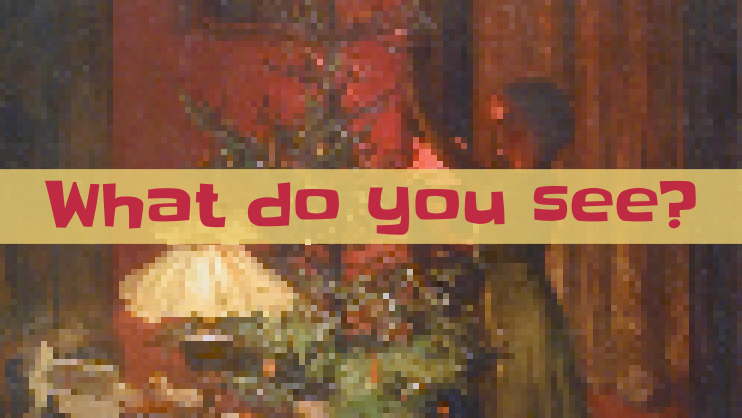
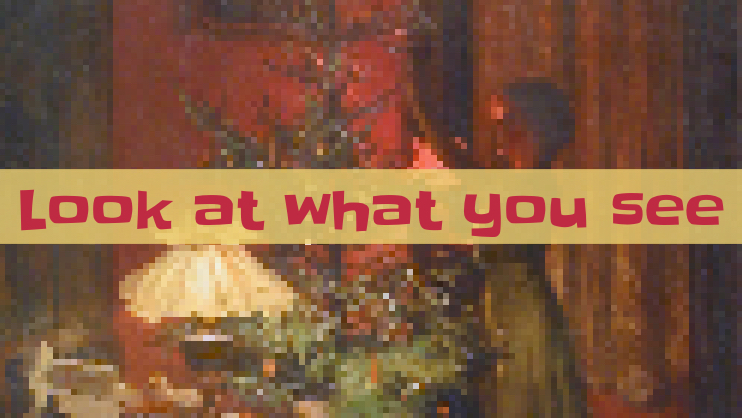
Changed to "Look at what you see"

Changed region(s): [[0.0, 0.4043, 0.9919, 0.5909]]

diff --git a/web.html b/web.html
@@ -3,7 +3,7 @@
 
 <html xmlns="http://www.w3.org/1999/xhtml">
     <head>
-        <title>What do you see? - Holiday greetings from Di.Co.Im.</title>
+        <title>Look at what you see - Holiday greetings from Di.Co.Im.</title>
         <link href='http://fonts.googleapis.com/css?family=Exo|Slackey' rel='stylesheet' type='text/css'>
         <style type="text/css">
             /* regular CSS styles go here */
